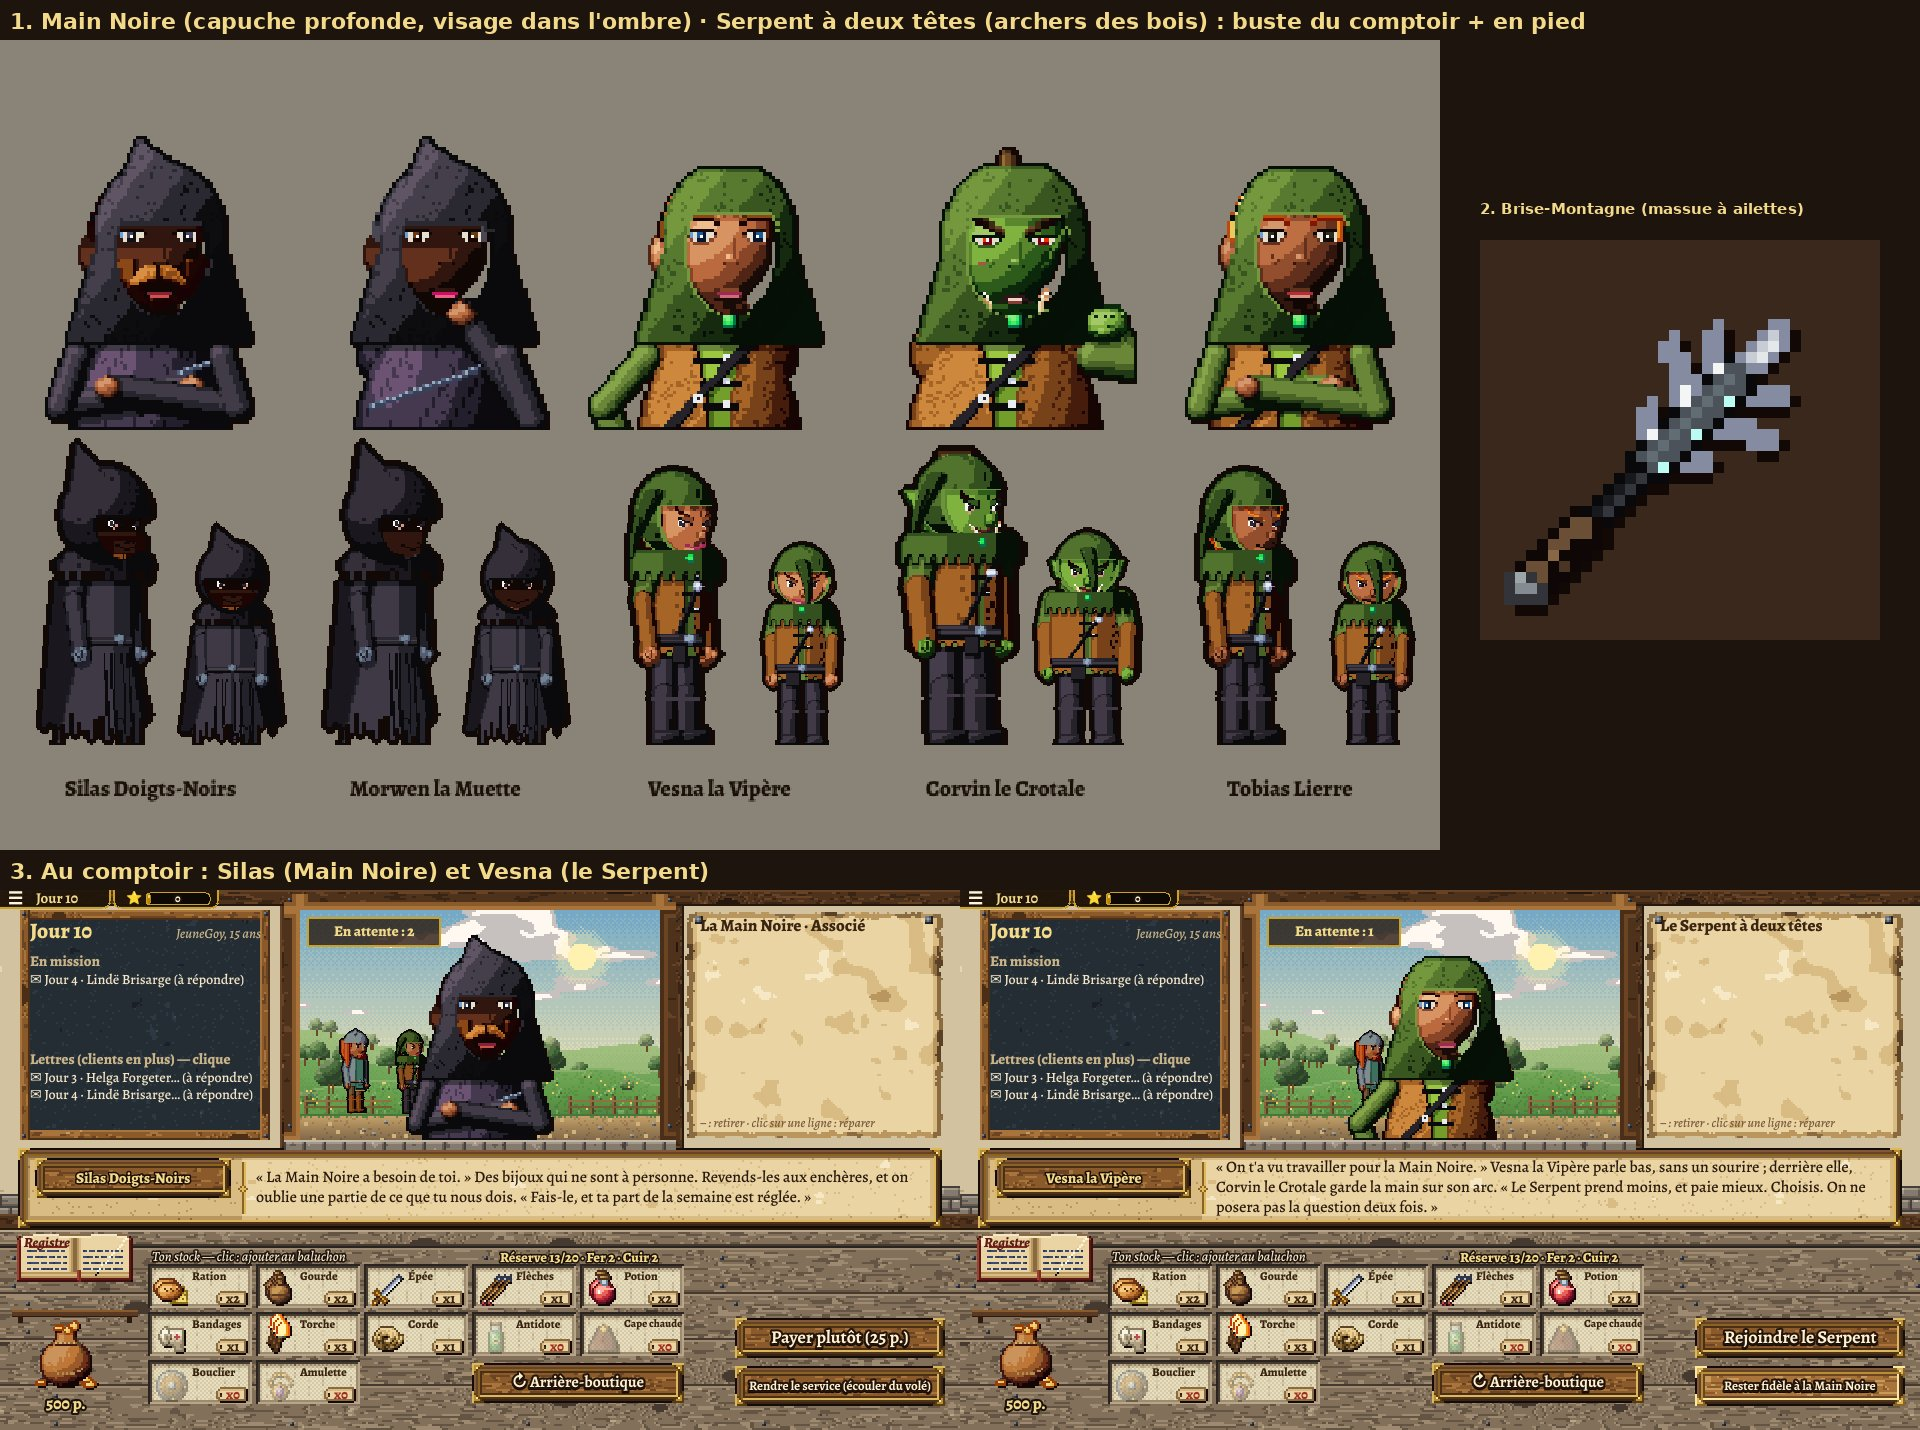
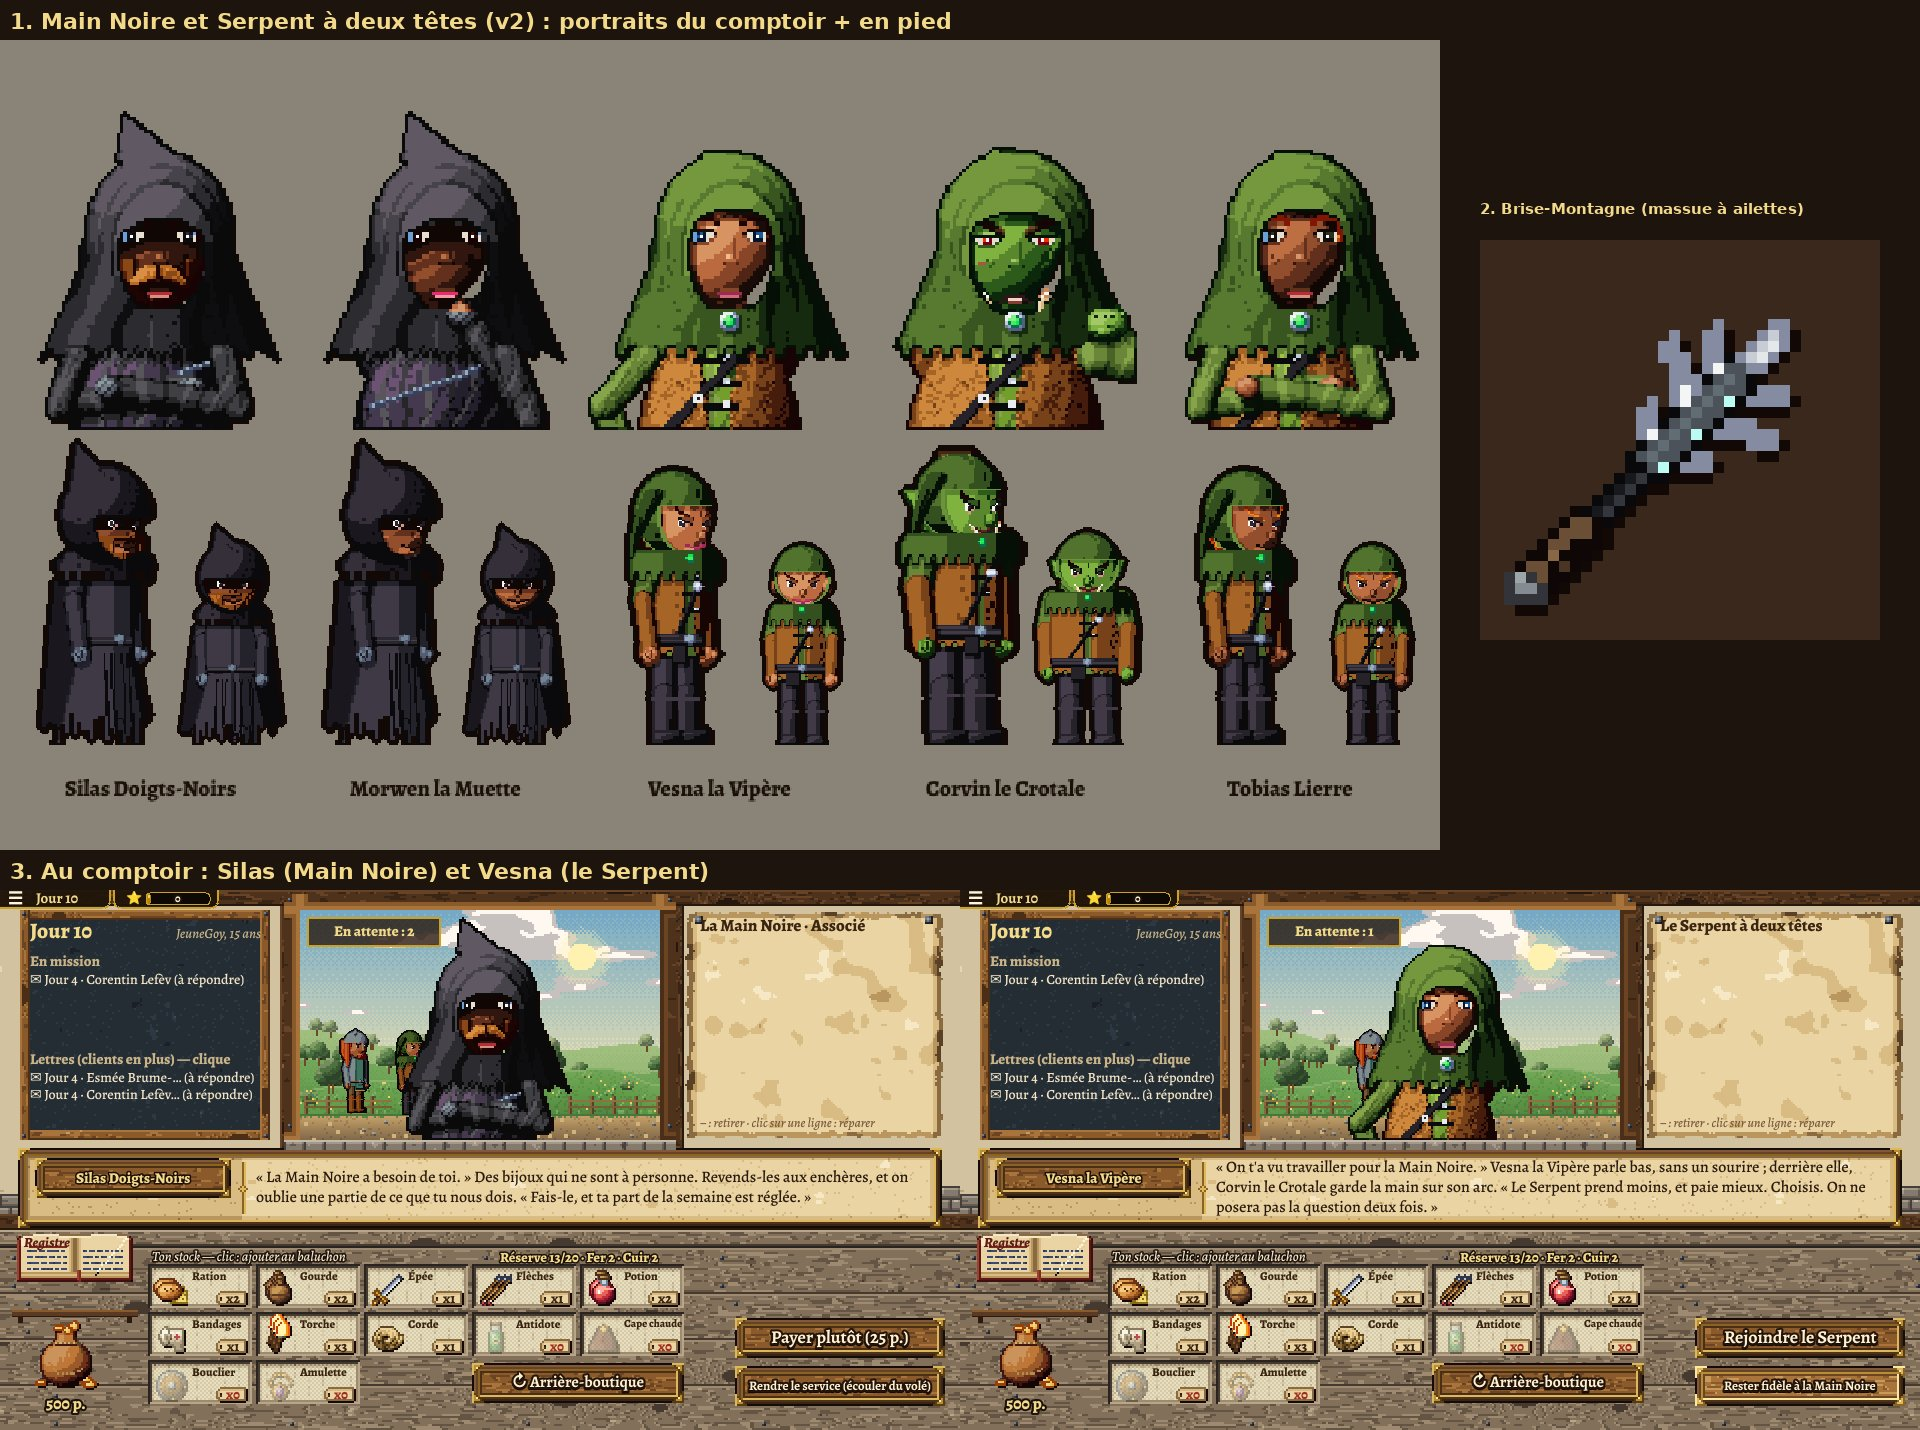
Bandes v2 : portraits retravaillés (capuche qui enveloppe la tête sans que rien ne dépasse, bord replié, ombre portée sur le front, plis sur la capuche, le camail et les habits, gantelets de fer au comptoir) ; en pied : plus d'ombre sous les yeux de la Main Noire, plus de trait vert sur le visage du
Claude-Session: https://claude.ai/code/session_018kbaP56NxxNMUzmj9EfKBC

diff --git a/src/portraitsHD.js b/src/portraitsHD.js
@@ -544,6 +544,7 @@ function dessinerBusteHD(gene, expression = 'neutre', { cligne = false, parle = 
 
   // 8. Les bras et les mains : la pose, selon l'humeur et le peuple
   brasBuste(t, g, v, cx, pose || poseBuste(g, expression));
+  if (g.bande) plisBuste(t, g, v, cx);
 
   // 9. Les peaux particulières : la fourrure (poils en hachures), les bandelettes de la momie
   if (TR.fourrure) for (let y = 0; y < HD_H; y++) for (let x = 0; x < HD_L; x++) if (t.mat(x, y) === 'peau' || t.mat(x, y) === 'noir') {
@@ -974,31 +975,77 @@ function coiffeHD(t, g, v, cx) {
 function capucheBuste(t, g, v, cx, ey) {
   const main = g.bande === 'main';
   // (des teintes sourdes : pas de vert pomme ni de violet, des étoffes sérieuses)
-  if (main) { t.rampes.cape = rampe(0x2a2830); t.rampes.habit = rampe(0x26242c); } else { t.rampes.cape = rampe(0x3a5620); t.rampes.habit = rampe(0x4a6428); }
-  const ouverture = (x, y) => ((x + 0.5 - cx - 1) / (v.rx - 1.5)) ** 2 + ((y + 0.5 - v.cy - 3) / (v.ry + 1)) ** 2 <= 1 && y > ey - (main ? 4 : 7);
-  const sommet = v.cy - v.ry - (main ? 13 : 4);
-  t.forme('cape', (x, y) => {
-    if (y > v.torse + 10 || y < sommet) return null;
-    if (ouverture(x, y)) return null;
+  if (main) { t.rampes.cape = rampe(0x2c2b30); t.rampes.habit = rampe(0x262629); } else { t.rampes.cape = rampe(0x3a5620); t.rampes.habit = rampe(0x4a6428); }
+  // L'ouverture : un ovale un peu plus petit que le visage (le bord de la capuche le recouvre), qui
+  // s'arrête au front (au ras des sourcils pour la Main Noire) et sous le menton
+  const ox = cx + 1, oy = v.cy + 4, orx = v.rx - 2.5, ory = v.ry - 0.5;
+  const haut = ey - (main ? 5 : 8), bas = v.bouche + 7;
+  const arche = x => haut + ((x + 0.5 - ox) / orx) ** 2 * 5;   // (le bord du front s'arrondit vers les tempes)
+  const dans = (x, y) => y > arche(x) && y < bas && ((x + 0.5 - ox) / orx) ** 2 + ((y + 0.5 - oy) / ory) ** 2 <= 1;
+  const anneau = (x, y) => (Math.sqrt(((x + 0.5 - ox) / orx) ** 2 + ((y + 0.5 - oy) / ory) ** 2) - 1) * orx;   // (la distance au bord, en pixels)
+  const hc = v.cy - 3, hrx = v.rx + 6.5, hry = v.ry + 5.5;
+  const largeurCamail = y => hrx - 1 + Math.max(0, y - v.cy) * 0.42;
+  const finCamail = x => v.torse + 8 + (main ? Math.round(hachage(x, 0, 43) * 4) : (Math.floor(x / 3) % 2 ? 3 : 0));
+  const forme = (x, y) => {
+    if (dans(x, y)) return null;
     const dx = x + 0.5 - cx;
-    // la tête de la capuche, un peu plus large que le crâne
-    const tete = (dx / (v.rx + 5)) ** 2 + ((y + 0.5 - v.cy + 1) / (v.ry + 5)) ** 2 <= 1;
-    // la pointe (Main Noire : haute, qui part en arrière ; Serpent : un petit bec)
-    const h = v.cy - v.ry - y, pointe = h > 0 && Math.abs(dx + h * (main ? 0.45 : 0.3)) < (main ? 12 - h * 0.85 : 9 - h * 2);
-    // le camail qui tombe sur les épaules
-    const camail = y >= v.cy && y <= v.torse + 7 && Math.abs(dx) < v.rx + 4 + (y - v.cy) * 0.3;
+    const tete = (dx / hrx) ** 2 + ((y + 0.5 - hc) / hry) ** 2 <= 1;
+    const h = hc - hry + 3 - y;   // (au-dessus du sommet de la tête)
+    const pointe = h > 0 && (main ? h < 16 && Math.abs(dx + 2 + h * 0.55) < 11 - h * 0.7 : h < 4 && Math.abs(dx + 3 + h * 0.8) < 7 - h * 1.6);
+    const camail = y >= v.cy && y <= finCamail(x) && Math.abs(dx) < largeurCamail(y);
     if (!(tete || pointe || camail)) return null;
-    return [dx / (v.rx + 8), (y - v.cy) / 40, 0.8];
-  }, { decalage: main ? -0.6 : -0.3, motif: (x, y) => (hachage(x, y, main ? 37 : 19) > 0.9 ? -0.8 : 0) });
-  // le bord replié autour du visage
-  for (let y = 0; y < HD_H; y++) for (let x = 0; x < HD_L; x++) if (t.mat(x, y) === 'cape' && [[1, 0], [-1, 0], [0, 1]].some(([a, b]) => t.mat(x + a, y + b) && t.mat(x + a, y + b) !== 'cape' && ouverture(x + a, y + b))) t.poser(x, y, 'cape', main ? 3 : 5);
-  if (main) {
-    // le bas du camail en lambeaux, et le visage dans l'ombre
-    for (let y = v.torse + 4; y <= v.torse + 10; y++) for (let x = 0; x < HD_L; x++) if (t.mat(x, y) === 'cape' && hachage(x, 0, 43) * 6 < y - v.torse - 4) t.poser(x, y, 'habit', 1);
-    for (let y = 0; y < v.torse; y++) for (let x = 0; x < HD_L; x++) { const m = t.mat(x, y); if (['peau', 'cheveux', 'levres', 'bouche'].includes(m)) t.poser(x, y, m, y < ey - 3 ? 0 : y < ey + 4 ? Math.min(t.k[y * t.l + x], 1) : Math.max(0, Math.min(t.k[y * t.l + x], 3) - 1)); }
-  } else {
-    t.rampes.emeraude = rampeVive(0x2ec860);
-    t.forme('emeraude', ellipsoide(cx, v.torse + 1, 2.2, 2.2), { decalage: 0.5 });
+    // un volume : la tête ronde, le camail qui s'évase sur les épaules
+    const nx = dx / (y > v.cy ? largeurCamail(y) : hrx);
+    return [nx * 0.9, y < v.cy ? (y - hc) / hry * 0.8 : 0.25, Math.sqrt(Math.max(0.1, 1 - nx * nx * 0.8))];
+  };
+  // Les plis : autour du visage, le bord replié (clair), l'ombre derrière lui, puis des plis en
+  // anneaux sur le crâne ; sur le camail, des plis qui tombent vers les épaules
+  const plis = (x, y) => {
+    const r = anneau(x, y);
+    if (y < v.cy + 10 && r < 2.2) return 0.9;
+    if (y < v.cy + 10 && r < 3.4) return -1;
+    if (y < v.cy + 4) return r % 6 < 1 ? -0.6 : r % 6 < 2 ? 0.35 : 0;
+    const u = (x + 0.5 - cx) / largeurCamail(y);
+    const f = Math.sin(u * 8.5 + (y - v.cy) * 0.06 + Math.sin(y * 0.3) * 0.3);
+    return f > 0.82 ? 0.55 : f < -0.86 ? -0.9 : hachage(x, y, main ? 37 : 19) > 0.93 ? -0.5 : 0;
+  };
+  t.forme('cape', forme, { decalage: main ? -0.5 : -0.25, motif: plis });
+  // L'ombre que la capuche jette sur le visage : le haut du visage s'assombrit sous le bord
+  for (let y = 0; y < v.torse; y++) for (let x = 0; x < HD_L; x++) {
+    const m = t.mat(x, y);
+    if (!['peau', 'cheveux', 'levres', 'bouche', 'iris'].includes(m) || !dans(x, y)) continue;
+    const sous = y - arche(x), k = t.k[y * t.l + x];
+    if (main) { if (sous < 9 && m !== 'iris') t.poser(x, y, m, sous < 6 ? 0 : Math.min(k, 1)); else if (sous < 13) t.poser(x, y, m, Math.max(0, k - 1)); }
+    else if (sous < 3 || -anneau(x, y) < 1.5) t.poser(x, y, m, Math.max(0, k - 2));
+  }
+  // (rien ne dépasse : une oreille ou une mèche hors de l'ouverture passe sous l'étoffe)
+  for (let y = 0; y < v.torse; y++) for (let x = 0; x < HD_L; x++) if (['peau', 'cheveux'].includes(t.mat(x, y)) && !dans(x, y)) t.poser(x, y, 'cape', 2);
+  if (!main) {
+    t.rampes.emeraude = rampeVive(0x2ec860); t.rampes.argent = rampeVive(0xc8ccd4);
+    t.forme('argent', ellipsoide(cx, v.torse + 1, 3, 3), { decalage: 0.3 });
+    t.forme('emeraude', ellipsoide(cx, v.torse + 1, 2, 2), { decalage: 0.6 });
+  }
+}
+
+// (v0.61) Les plis des étoffes des deux bandes : la robe, les manches, la tunique et le gilet
+// prennent des faux plis, des coutures et de l'usure (sinon, de grands aplats sans vie)
+function plisBuste(t, g, v, cx) {
+  const main = g.bande === 'main';
+  for (let y = v.torse - 2; y < HD_H; y++) for (let x = 0; x < HD_L; x++) {
+    const m = t.mat(x, y), k = t.k[y * t.l + x];
+    if (m === 'habit') {
+      const f = Math.sin((x - cx) * 0.55 + y * 0.18 + Math.sin(y * 0.21 + x * 0.1) * 1.4);
+      if (f > 0.86) t.poser(x, y, m, Math.min(5, k + 1)); else if (f < -0.9) t.poser(x, y, m, Math.max(0, k - 1));
+      if (main && hachage(x, y, 71) > 0.95) t.poser(x, y, m, Math.max(0, k - 1));
+    } else if (m === 'peau' && main) {
+      // les gantelets de fer sombre de la Main Noire, avec leurs articulations
+      t.rampes.gantelet = rampe(0x5c606c);
+      t.poser(x, y, 'gantelet', (x + y) % 3 === 0 ? Math.max(0, k - 2) : k);
+    } else if (m === 'gilet') {
+      if (hachage(x, y, 83) > 0.9) t.poser(x, y, m, Math.max(0, k - 1));
+      // une couture claire le long de l'ouverture du gilet
+      if (t.mat(x - 1, y) === 'habit' || t.mat(x + 1, y) === 'habit') { if (y % 2) t.poser(x, y, m, Math.min(5, k + 2)); }
+    }
   }
 }
 

diff --git a/src/corpsVueHD.js b/src/corpsVueHD.js
@@ -973,7 +973,7 @@ function dessinerCorpsVue(g, tenue = 1, costume = null, pas = 0, pose = null, vu
       if (n) { const fz = n[0] * s + n[2] * c; if (!(y < ey - 1.5 * k || fz < 0.5)) return null; return n; }
       return pointe || epaules; }, { decalage: -0.4, motif: (x, y) => (hachage(Math.floor(x / k), Math.floor(y / k), 37) > 0.9 ? -0.8 : 0) });
     // tout le visage dans l'ombre de la capuche : seuls les yeux luisent
-    for (let y = 0; y < yT; y++) for (let x = 0; x < L; x++) if (t.mat(x, y) === 'peau' || t.mat(x, y) === 'cheveux' || t.mat(x, y) === 'levres') t.poser(x, y, t.mat(x, y), y < ey + 2 * k ? 0 : Math.min(t.teinte(x, y), 1));
+    for (let y = 0; y < yT; y++) for (let x = 0; x < L; x++) if (t.mat(x, y) === 'peau' || t.mat(x, y) === 'cheveux' || t.mat(x, y) === 'levres') { if (y < ey + 1.5 * k) t.poser(x, y, t.mat(x, y), 0); else if (y < ey + 3 * k) t.poser(x, y, t.mat(x, y), Math.max(0, t.teinte(x, y) - 1)); }
     for (let y = yT + 6 * k - 2 * k; y <= yT + 6 * k; y++) for (let x = 0; x < L; x++) if (t.mat(x, y) === 'cape' && hachage(Math.floor(x / k), 0, 43) > 0.5) { t.c[y * L + x] = null; t.m[y * L + x] = null; }
   } else if (costume === 'serpent') {
     // La capuche verte des archers, à longue pointe qui retombe dans le dos, et le camail à dents
@@ -985,7 +985,7 @@ function dessinerCorpsVue(g, tenue = 1, costume = null, pas = 0, pose = null, vu
     const bordC = []; for (let y = 0; y < yT; y++) for (let x = 0; x < L; x++) if (t.mat(x, y) === 'cape' && ['peau', 'cheveux', 'blanc', 'pupille', 'iris'].some(m => t.mat(x - 1, y) === m || t.mat(x + 1, y) === m || t.mat(x, y + 1) === m)) bordC.push([x, y]);
     for (const [x, y] of bordC) for (let e = 0; e < k; e++) if (t.mat(x - (s > 0 ? e : -e), y) === 'cape') t.poser(x - (s > 0 ? e : -e), y, 'cape', 5);
     // la longue pointe de la capuche, qui retombe dans le dos jusqu'aux omoplates
-    if (!dos) for (let j = 0; j < 16 * k; j++) { const u = j / (16 * k); const px = X(0, -P.rx * (0.9 + u * 0.6)) - Math.sin(u * 2.2) * 2 * k * (s > 0 ? 1 : -1), py = cy - P.ry * 0.7 + j * 0.95; t.forme('cape', ellipsoide(px, py, Math.max(0.6 * k, 2.4 * k * (1 - u * 0.8)), 1.1 * k), { decalage: -0.5 }); }
+    if (!dos && Math.abs(s) > 0.3) for (let j = 0; j < 16 * k; j++) { const u = j / (16 * k); const px = X(0, -P.rx * (0.9 + u * 0.6)) - Math.sin(u * 2.2) * 2 * k * (s > 0 ? 1 : -1), py = cy - P.ry * 0.7 + j * 0.95; t.forme('cape', ellipsoide(px, py, Math.max(0.6 * k, 2.4 * k * (1 - u * 0.8)), 1.1 * k), { decalage: -0.5 }); }
     t.forme('cape', (x, y) => (y >= yT - 1 * k && y <= yT + 6 * k && Math.abs(x + 0.5 - cx) < ep + 2 * k - Math.max(0, yT + 1 * k - y) * 0.8 && !(y > yT + 4 * k && Math.floor(x / k) % 3 === 1) ? [(x + 0.5 - cx) / (ep + 3 * k), 0, 0.8] : null), { decalage: -0.2 });
     if (!dos) t.forme('emeraude', ellipsoide(X(0, prof * 1.05), yT + 1 * k, 1.1 * k, 1.1 * k), { decalage: 0.5, ombre: false });
   } else if (costume === 'mentor') {
